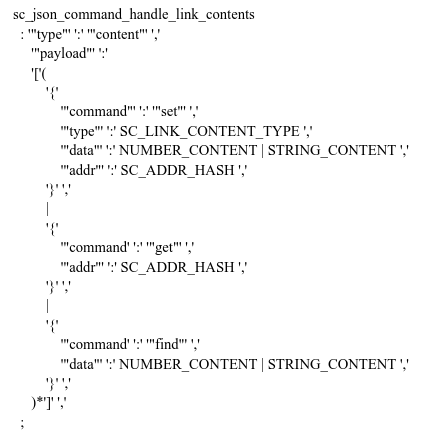
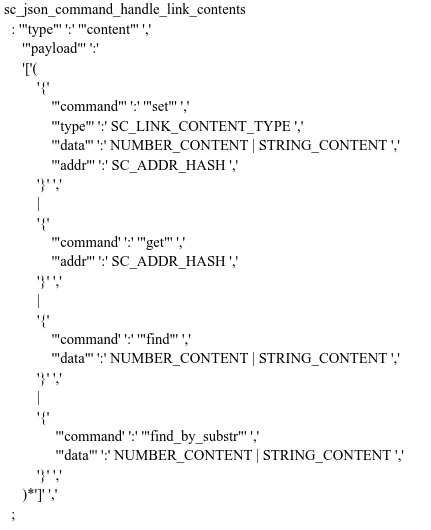
[docs] Update docs about links handling in sc-server

diff --git a/docs/sc-network/sc_server.tex b/docs/sc-network/sc_server.tex
@@ -249,7 +249,7 @@
 	\scnaddlevel{1}
 		\scniselement{Язык описания грамматики языков ANTLR}
 		\scnrelfromlist{интерпретация}{
-			\scnfileitem{Сообщение \textit{команды обработки содержимого sc-ссылок} может включать описание ключевых sc-ссылок, которые необходимо найти по их содержимому, для которых необходимо установить содержимое разрешить и/или у которых необходимо получить содержимое. Как и в \textit{Правиле написания команды обработки ключевых sc-элементов} деление осуществляется с помощью подкоманд, содержащихся в сообщении команды. Идентификаторами подкоманд могут быть "find"{}, "set"{} и "get"{} соответственно, стоящие в паре с ключевым словом "command". В описаниях команд "set"{} и "get"{} указывается хеш sc-ссылки в паре с ключевым словом "addr". В описаниях команд "set"{} и "find"{} указывается содержимое sc-ссылки в паре с ключевым словом "data". Дополнительно в описании подкоманды "set"{} указывается тип устанавливаемого содержимого sc-ссылки.}
+			\scnfileitem{Сообщение \textit{команды обработки содержимого sc-ссылок} может включать описание ключевых sc-ссылок, которые необходимо найти по их содержимому или/и части этого содержимого, для которых необходимо установить содержимое разрешить и/или у которых необходимо получить содержимое. Как и в \textit{Правиле написания команды обработки ключевых sc-элементов} деление осуществляется с помощью подкоманд, содержащихся в сообщении команды. Идентификаторами подкоманд могут быть "find"{}, "find\_by\_substr"{}, "set"{} и "get"{} соответственно, стоящие в паре с ключевым словом "command". В описаниях команд "set"{} и "get"{} указывается хеш sc-ссылки в паре с ключевым словом "addr". В описаниях команд "set"{}, "find"{} и "find\_by\_substr"{} указывается содержимое sc-ссылки в паре с ключевым словом "data". Дополнительно в описании подкоманды "set"{} указывается тип устанавливаемого содержимого sc-ссылки.}
 		}
 	\scnaddlevel{-1}
 	\scnrelto{синтаксическое правило}{команда обработки содержимого sc-ссылок}

diff --git a/docs/changelog.md b/docs/changelog.md
@@ -10,6 +10,7 @@ and this project adheres to [Semantic Versioning](https://semver.org/spec/v2.0.0
 - Add `;` after `SC_ASSERT` calls in projects that use sc-machine
 
 ### Added
+- Add find links by substring in sc-server
 - Unite configuration for sc-server and sc-builder
 - Write docs in scn-latex for sc-server
 - Implement sc-memory configurator
